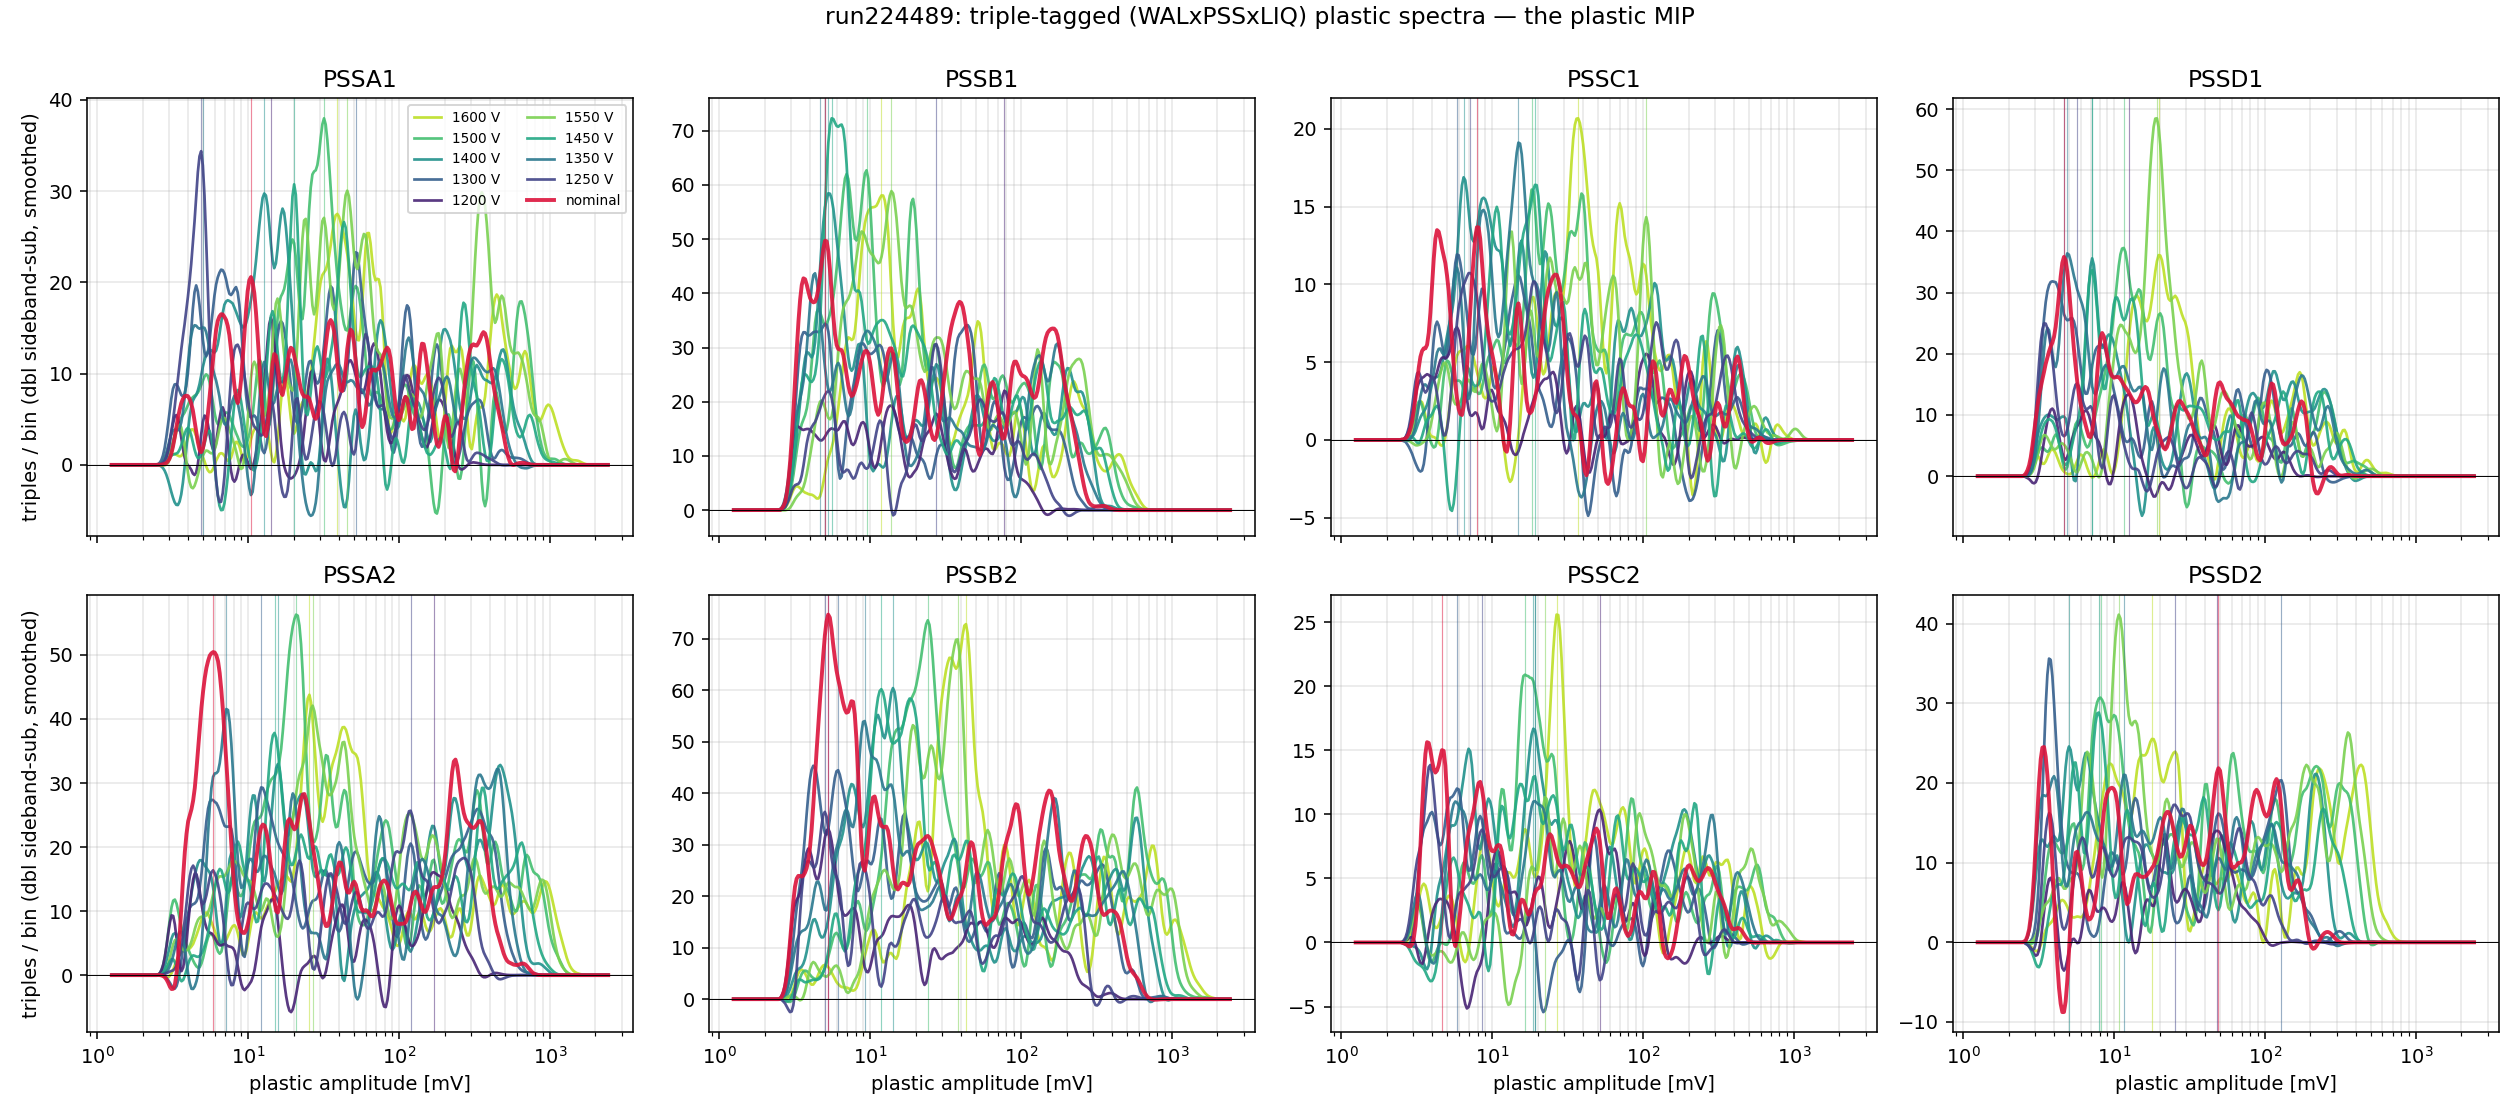
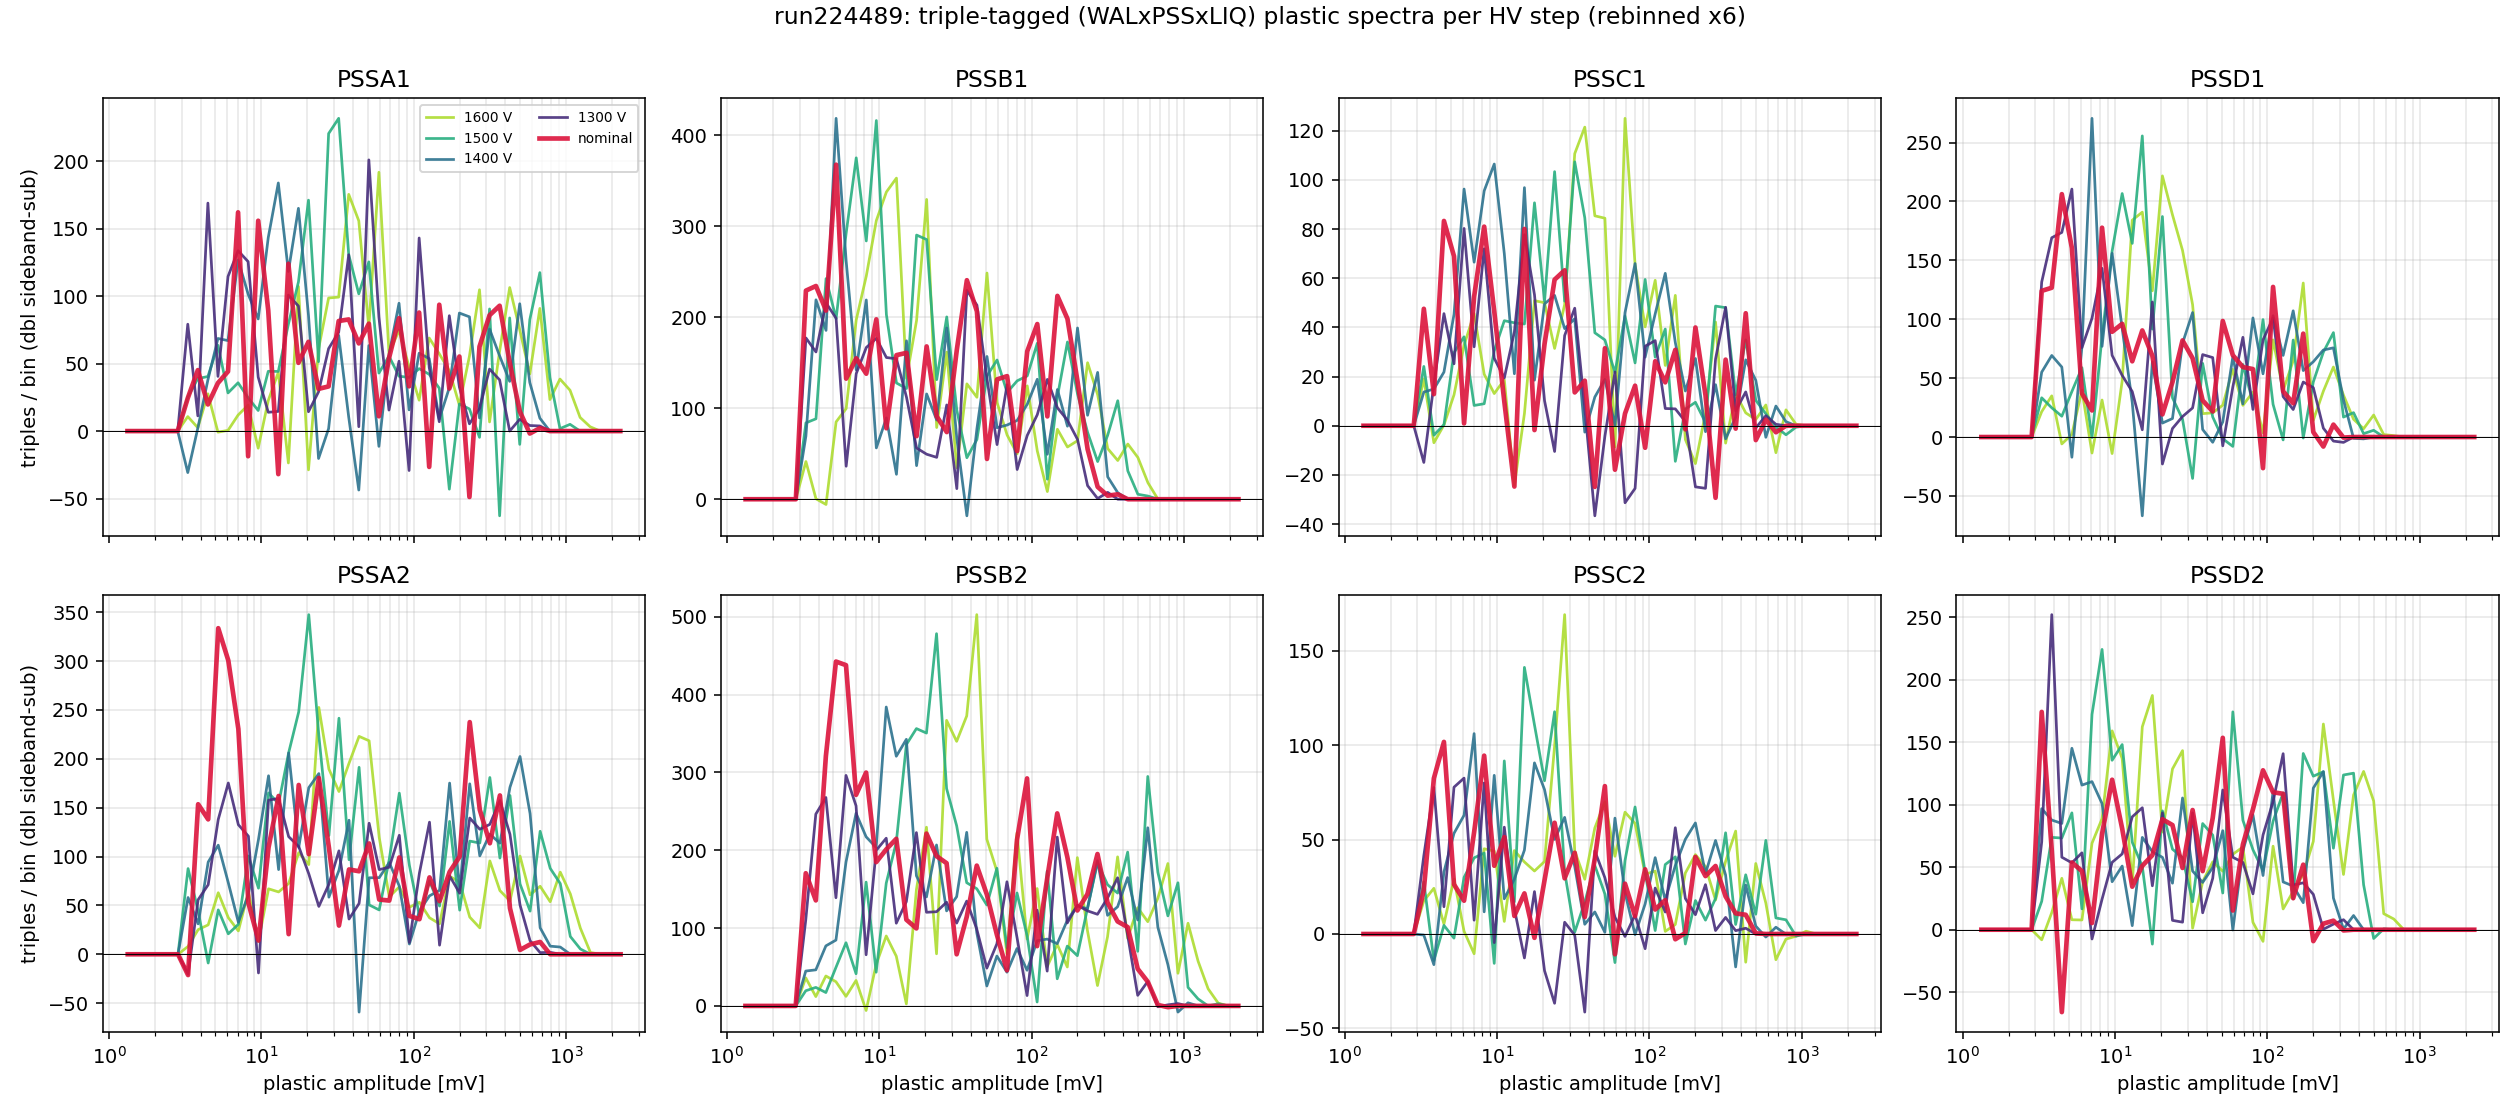
MIP figures fixed: gain-aligned stack as headline evidence + slide overflow
- new pss_mip_aligned.png: each step scaled to nominal-V equivalent
  (translation in log amp) -> steps pile up at a common peak while the
  fixed-ADC threshold edge moves; sum shows one dominant peak at the
  adopted MIP on every PMT. This replaces the noisy per-step plot as the
  existence evidence (report + slide "Result 4")
- per-step spectra rebinned x6 and trimmed to 4 steps + nominal (was 300
  fine bins x 10 curves = unreadable wiggles); moved to backup in slides
- report: honest per-step statistics discussion (~2-6k net triples/step),
  note on the ~100-300 mV secondary component
- slides: keepaspectratio on all figures (several were cut off on the
  right); 23 frames

diff --git a/mx_july_beam_qa/19b_triples_figs.py b/mx_july_beam_qa/19b_triples_figs.py
@@ -48,6 +48,22 @@ NOMINAL_V = {'PSSA1': 1325, 'PSSA2': 1275, 'PSSB1': 1325, 'PSSB2': 1300,
 KERN = np.exp(-0.5 * (np.arange(-8, 9) / 3.0) ** 2)
 KERN /= KERN.sum()
 
+RB = 6                                     # display rebin: 300 -> 50 log bins
+CEN_RB = np.exp(np.log(CEN)[:len(CEN) // RB * RB].reshape(-1, RB).mean(axis=1))
+DLOG = np.log10(AE[-1] / AE[0]) / (len(AE) - 1)   # fine log-bin width [dex]
+
+
+def rebin(spec, rb=RB):
+    n = len(spec) // rb
+    return spec[:n * rb].reshape(n, rb).sum(axis=1)
+
+
+def shift_log(spec, shift_dex):
+    """Translate a counts-per-log-bin spectrum by shift_dex (gain scaling is a
+    pure translation in log amplitude; linear interp on fractional bins)."""
+    x = np.arange(len(spec), dtype=float)
+    return np.interp(x - shift_dex / DLOG, x, spec, left=0, right=0)
+
 
 def dsub(h):
     """(wp, liq, nbins) -> double sideband-subtracted spectrum."""
@@ -77,14 +93,13 @@ for ai, st in enumerate('ABCD'):
             i = LABELS.index(l)
             sub = pss_sub(i, ai, b)
             v = VOLT[l]
-            col = cmap((v - 1150) / 500) if v else 'crimson'
-            sm = np.convolve(sub, KERN, mode='same')
-            ax.plot(CEN * f_mv, sm, color=col, lw=1.4 if v else 2.0,
+            modes[(pmt, l)] = smoothed_mode(sub, CEN)   # numbers: fine hist
+            # display only a readable subset; all steps enter the aligned fig
+            if v is not None and v not in (1600, 1500, 1400, 1300):
+                continue
+            col = cmap((v - 1250) / 400) if v else 'crimson'
+            ax.plot(CEN_RB * f_mv, rebin(sub), color=col, lw=1.4 if v else 2.4,
                     label=(f'{v} V' if v else 'nominal'), alpha=0.9)
-            mode = smoothed_mode(sub, CEN)
-            modes[(pmt, l)] = mode
-            if np.isfinite(mode):
-                ax.axvline(mode * f_mv, color=col, lw=0.6, alpha=0.5)
         ax.set_xscale('log')
         ax.set_title(pmt)
         ax.grid(alpha=0.3, which='both')
@@ -92,10 +107,10 @@ for ai, st in enumerate('ABCD'):
         if b == 1:
             ax.set_xlabel('plastic amplitude [mV]')
         if ai == 0:
-            ax.set_ylabel('triples / bin (dbl sideband-sub, smoothed)')
+            ax.set_ylabel('triples / bin (dbl sideband-sub)')
 axes[0][0].legend(fontsize=7, ncol=2)
-fig.suptitle(f'{RUN_STEM}: triple-tagged (WALxPSSxLIQ) plastic spectra — '
-             'the plastic MIP', y=0.995)
+fig.suptitle(f'{RUN_STEM}: triple-tagged (WALxPSSxLIQ) plastic spectra per HV '
+             'step (rebinned x6)', y=0.995)
 fig.tight_layout()
 fig.savefig(OUT / 'pss_mip_spectra.png', dpi=140)
 plt.close(fig)
@@ -178,6 +193,52 @@ fig.suptitle(f'{RUN_STEM}: plastic MIP mode vs HV (power-law fits, '
              'star = extrapolation to nominal)', y=0.995)
 fig.tight_layout()
 fig.savefig(OUT / 'pss_mip_vs_v.png', dpi=140)
+plt.close(fig)
+
+# ------------------------------------------------- gain-aligned stacked MIP
+# The decisive existence test: scaling each step's spectrum to its
+# nominal-V-equivalent amplitude (translation in log amp by n*log10(Vnom/V))
+# must ALIGN a physical peak across steps while the fixed-ADC threshold edge
+# moves. Summing the aligned steps then gives one high-statistics spectrum.
+fig, axes = plt.subplots(2, 4, figsize=(18, 8), sharex=True)
+for ai, st in enumerate('ABCD'):
+    for b in range(2):
+        pmt = f'PSS{st}{b + 1}'
+        f_mv = FAC[f'PSS{st}'][str(b + 1)]
+        ax = axes[b][ai]
+        if pmt not in fit_n:
+            continue
+        n_g, vn = fit_n[pmt], NOMINAL_V[pmt]
+        total = np.zeros(len(CEN))
+        for l in SCAN_STEPS:
+            v = VOLT[l]
+            if v < 1300:                    # deep-threshold steps add noise only
+                continue
+            sub = pss_sub(LABELS.index(l), ai, b)
+            al = shift_log(sub, n_g * np.log10(vn / v))
+            total += al
+            ax.plot(CEN_RB * f_mv, rebin(al), lw=0.8, alpha=0.65,
+                    color=plt.cm.viridis((v - 1250) / 400), label=f'{v} V')
+        ax.plot(CEN_RB * f_mv, rebin(total) / 3, lw=2.4, color='crimson',
+                label='sum / 3')
+        mip, spr = mip_nominal[pmt]
+        ax.axvline(mip * f_mv, color='k', lw=1.2, ls='--',
+                   label=f'MIP {mip * f_mv:.1f} mV')
+        ax.set_xscale('log')
+        ax.set_title(f'{pmt}  (n = {n_g:.2f})')
+        ax.grid(alpha=0.3, which='both')
+        ax.axhline(0, color='k', lw=0.5)
+        if b == 1:
+            ax.set_xlabel('nominal-V-equivalent amplitude [mV]')
+        if ai == 0:
+            ax.set_ylabel('aligned triples / bin')
+        if ai == 0 and b == 0:
+            ax.legend(fontsize=6, ncol=2)
+fig.suptitle(f'{RUN_STEM}: gain-aligned triple spectra — steps pile up at a '
+             'common peak (dashed: adopted MIP) while the threshold edge moves',
+             y=0.995)
+fig.tight_layout()
+fig.savefig(OUT / 'pss_mip_aligned.png', dpi=140)
 plt.close(fig)
 
 # ------------------------------------------------------- wall MIP in triples

diff --git a/mx_july_beam_qa/slides/run224489_slides.tex b/mx_july_beam_qa/slides/run224489_slides.tex
@@ -39,7 +39,7 @@
 
 \begin{frame}{Scan timeline: bunches $\to$ HV steps via the CAEN log}
 \centering
-\includegraphics[height=.8\textheight]{12_hv_scan/scan_timeline.png}
+\includegraphics[width=\textwidth,height=.8\textheight,keepaspectratio]{12_hv_scan/scan_timeline.png}
 \end{frame}
 
 \begin{frame}{Result 1 --- the cross-wiring fix is \textbf{confirmed}; A/D closed}
@@ -57,12 +57,12 @@
 
 \begin{frame}{A/D duplication autopsy: before-and-after}
 \centering
-\includegraphics[height=.78\textheight]{run224489/autopsy/dup_veto_spectra.png}
+\includegraphics[width=\textwidth,height=.78\textheight,keepaspectratio]{run224489/autopsy/dup_veto_spectra.png}
 \end{frame}
 
 \begin{frame}{HV scan: wall MIP again immune to plastic HV (now incl.\ arm A)}
 \centering
-\includegraphics[height=.72\textheight]{12_hv_scan/wall_mip_stability.png}
+\includegraphics[width=\textwidth,height=.72\textheight,keepaspectratio]{12_hv_scan/wall_mip_stability.png}
 
 {\small $\pm$1 bin ($\pm$2.6\%) over a $3\times$ tag-rate change $\Rightarrow$
 wall energy scale independent of plastic operating point.}
@@ -70,12 +70,12 @@ wall energy scale independent of plastic operating point.}
 
 \begin{frame}{Per-PMT gain power laws $G\propto V^{n}$, $n=3.8$--$7.1$}
 \centering
-\includegraphics[height=.78\textheight]{12_hv_scan/gain_curves.png}
+\includegraphics[width=\textwidth,height=.78\textheight,keepaspectratio]{12_hv_scan/gain_curves.png}
 \end{frame}
 
 \begin{frame}{Result 2 --- the FIFO gain ratio is \textbf{1.4}, not 2}
 \centering
-\includegraphics[height=.68\textheight]{19_triples/fifo_ratio.png}
+\includegraphics[width=\textwidth,height=.68\textheight,keepaspectratio]{19_triples/fifo_ratio.png}
 
 {\small Same-HV coincident medians, 224489/224466: fleet geo-mean $\times$1.40,
 per-PMT 1.13 (DL) -- 1.65 (AL). Use the measured per-PMT ratios, not a global 2.}
@@ -112,7 +112,7 @@ DR & 34.4 & 1433 & $+133$\\
 
 \begin{frame}{Result 3 --- the liquids are timed in (first time)}
 \centering
-\includegraphics[height=.7\textheight]{19_triples/liq_wide_dt.png}
+\includegraphics[width=\textwidth,height=.7\textheight,keepaspectratio]{19_triples/liq_wide_dt.png}
 
 {\small LIQ leads the plastic by 29.5--32.8 ns, within $\pm$3.3 ns of the wall;
 per-channel offsets (rms 3.2--4.5 ns) $\to$ \texttt{calib/liq\_offsets\_run224489.json}.}
@@ -120,12 +120,12 @@ per-channel offsets (rms 3.2--4.5 ns) $\to$ \texttt{calib/liq\_offsets\_run22448
 
 \begin{frame}{LIQ timing per wall channel / plastic bar}
 \centering
-\includegraphics[height=.8\textheight]{19_triples/liq_timing.png}
+\includegraphics[width=\textwidth,height=.8\textheight,keepaspectratio]{19_triples/liq_timing.png}
 \end{frame}
 
 \begin{frame}{The triple telescope: why LIQ unlocks the \emph{plastic} MIP}
 \centering
-\includegraphics[height=.7\textheight]{11_diagrams/concept_wall_plastic_liq.png}
+\includegraphics[width=\textwidth,height=.7\textheight,keepaspectratio]{11_diagrams/concept_wall_plastic_liq.png}
 
 {\small Stack: MM $\to$ wall $\to$ plastic $\to$ LS. Wall$\times$plastic tags
 wall MIPs only; adding a LIQ hit \emph{behind} the plastic selects
@@ -133,17 +133,20 @@ through-goers $\Rightarrow$ plastic spectrum in triples = plastic MIP
 candidates. Double sideband subtraction in both dt's.}
 \end{frame}
 
-\begin{frame}{Result 4 --- the plastic MIP, found}
+\begin{frame}{Result 4 --- the plastic MIP, found (gain-aligned stack)}
 \centering
-\includegraphics[height=.72\textheight]{19_triples/pss_mip_spectra.png}
+\includegraphics[width=\textwidth,height=.72\textheight,keepaspectratio]{19_triples/pss_mip_aligned.png}
 
-{\small Net triples 9.2 k (CL) -- 49.5 k (BR); the hump marches with HV;
-red = nominal-HV window. Wall spectrum in triples unchanged (backup).}
+{\small Each step's spectrum scaled to its nominal-V equivalent
+($\times(V_{\rm nom}/V)^{n}$ = translation in log amp): a \emph{physical} peak
+must align across steps, the fixed-ADC threshold edge must move. The summed
+spectrum (red) peaks at the adopted MIP (dashed) on every PMT. Net triples
+9.2 k (CL) -- 49.5 k (BR); per-step spectra in backup.}
 \end{frame}
 
 \begin{frame}{Plastic MIP vs HV $\to$ calibration at nominal}
 \centering
-\includegraphics[height=.78\textheight]{19_triples/pss_mip_vs_v.png}
+\includegraphics[width=\textwidth,height=.78\textheight,keepaspectratio]{19_triples/pss_mip_vs_v.png}
 \end{frame}
 
 \begin{frame}{First plastic-MIP calibration table}
@@ -182,7 +185,7 @@ DR &  \alert{3.7} & 15\% & 0.73\\
 
 \begin{frame}{Result 5 --- LIQ gain-vs-position gradient is \textbf{real}}
 \centering
-\includegraphics[height=.62\textheight]{19_triples/liq_position_map.png}
+\includegraphics[width=\textwidth,height=.62\textheight,keepaspectratio]{19_triples/liq_position_map.png}
 
 {\small Triple-tagged track position: horizontal = wall group $\times$ bar,
 vertical = wall top/bottom asymmetry. 1.5--2$\times$ gradient toward the PMT;
@@ -193,12 +196,12 @@ vertical on B/C (PMT up) --- matches the as-built Geant geometry.}
 \begin{frame}{Timing: one clean common delay; the satellite misbehaves}
 \begin{columns}
 \column{.52\textwidth}
-\includegraphics[width=\textwidth]{19_triples/offset_shift.png}
+\includegraphics[width=\textwidth,height=.62\textheight,keepaspectratio]{19_triples/offset_shift.png}
 
 {\small All 64 wall--plastic offsets shifted by a \textbf{common
 $-22.27$ ns (rms 0.22 ns)}.}
 \column{.46\textwidth}
-\includegraphics[width=\textwidth]{19_triples/satellite.png}
+\includegraphics[width=\textwidth,height=.62\textheight,keepaspectratio]{19_triples/satellite.png}
 
 {\small The $-60$ ns satellite kept its \emph{absolute} position (main peak
 moved $-22$ ns) and grew to 19--34\% of the peak $\Rightarrow$ not a
@@ -223,26 +226,35 @@ recommended.} (Outside all analysis windows.)}
 \end{enumerate}
 \end{frame}
 
+\begin{frame}{Backup: per-step triple spectra (low stats per step)}
+\centering
+\includegraphics[width=\textwidth,height=.72\textheight,keepaspectratio]{19_triples/pss_mip_spectra.png}
+
+{\small $\sim$2--6 k net triples per PMT per step after double sideband
+subtraction --- individually noisy; the gain-aligned stack is the evidence
+plot, these show the raw marching with HV.}
+\end{frame}
+
 \begin{frame}{Backup: wall spectrum unchanged by the LIQ tag}
 \centering
-\includegraphics[height=.78\textheight]{19_triples/wall_in_triples.png}
+\includegraphics[width=\textwidth,height=.78\textheight,keepaspectratio]{19_triples/wall_in_triples.png}
 \end{frame}
 
 \begin{frame}{Backup: triple-tagged LIQ spectra (C/D low)}
 \centering
-\includegraphics[height=.7\textheight]{19_triples/liq_spectra.png}
+\includegraphics[width=\textwidth,height=.7\textheight,keepaspectratio]{19_triples/liq_spectra.png}
 
 {\small Inclusive LIQ medians: A 7.5, B 10.4, C 4.7, D 5.3 mV.}
 \end{frame}
 
 \begin{frame}{Backup: coincident spectra per step (linear mV)}
 \centering
-\includegraphics[height=.78\textheight]{12_hv_scan/coinc_spectra_linear.png}
+\includegraphics[width=\textwidth,height=.78\textheight,keepaspectratio]{12_hv_scan/coinc_spectra_linear.png}
 \end{frame}
 
 \begin{frame}{Backup: trigger threshold scan at equalized gains}
 \centering
-\includegraphics[height=.78\textheight]{12_hv_scan/threshold_scan.png}
+\includegraphics[width=\textwidth,height=.78\textheight,keepaspectratio]{12_hv_scan/threshold_scan.png}
 \end{frame}
 
 \end{document}

diff --git a/mx_july_beam_qa/report/run224489_report.tex b/mx_july_beam_qa/report/run224489_report.tex
@@ -251,18 +251,41 @@ the new offsets; sideband $+20$..$+120$\,ns) matched to LIQ hits near the
 plastic time ($|dt_{\rm LIQ}|\leq10$\,ns around the per-arm peak; double
 sideband $25$--$125$\,ns both sides), and every spectrum is double
 sideband-subtracted in both $dt$'s. Net triple counts per PMT range from
-9.2\,k (CL) to 49.5\,k (BR). The subtracted plastic spectra show a clear hump
-that marches with HV (Fig.~\ref{fig:mipspectra}) --- a real peak, well above
-threshold for $V\geq1400$\,V, sinking into the threshold turn-on at the
-lowest steps. As a systematic check, adding the LIQ tag leaves the \emph{wall}
-spectrum in triples unchanged (Fig.~\ref{fig:wallintriples}): the third tag
-purifies without biasing.
+9.2\,k (CL) to 49.5\,k (BR) --- but split over the HV steps this is only
+$\sim$2--6\,k per PMT per step, so the individual per-step spectra
+(Fig.~\ref{fig:mipspectra}) are statistically noisy; they show the spectral
+hump marching with HV but are not, by themselves, compelling.
+
+The compelling test is gain alignment (Fig.~\ref{fig:mipaligned}): scaling
+each step's spectrum to its nominal-voltage equivalent (a multiplication by
+$(V_{\rm nom}/V)^{n}$, i.e.\ a pure translation in log amplitude) must make a
+\emph{physical} peak coincide across steps, while the fixed-ADC threshold
+edge moves from step to step. That is exactly what the data do: the aligned
+steps pile up at a common position and their sum --- one high-statistics
+spectrum per PMT --- shows a single dominant peak at the adopted MIP value,
+3--6$\times$ above even the worst step's aligned threshold edge. A threshold
+artifact cannot produce this behavior. (The aligned stacks also reveal a
+genuine secondary component at $\sim$100--300\,mV equivalent, most visible on
+AR/BR/DR --- large energy deposits, composition not yet identified.) As a
+further systematic check, adding the LIQ tag leaves the \emph{wall} spectrum
+in triples unchanged (Fig.~\ref{fig:wallintriples}): the third tag purifies
+without biasing.
+
+\begin{figure}[H]\centering
+\includegraphics[width=\textwidth]{19_triples/pss_mip_aligned.png}
+\caption{Gain-aligned triple-tagged plastic spectra: thin curves are
+individual steps ($V\geq1300$\,V) scaled to nominal-V equivalent, the red
+curve is their sum ($/3$), the dashed line the adopted MIP. A physical peak
+aligns; the threshold edge does not.}
+\label{fig:mipaligned}
+\end{figure}
 
 \begin{figure}[H]\centering
 \includegraphics[width=\textwidth]{19_triples/pss_mip_spectra.png}
 \caption{Triple-tagged plastic spectra per HV step (double
-sideband-subtracted, smoothed). The MIP hump moves coherently with HV; the
-red curve is the nominal-HV window.}
+sideband-subtracted, rebinned $\times$6; readable subset of steps shown).
+The MIP hump moves coherently with HV; the red curve is the nominal-HV
+window.}
 \label{fig:mipspectra}
 \end{figure}
 